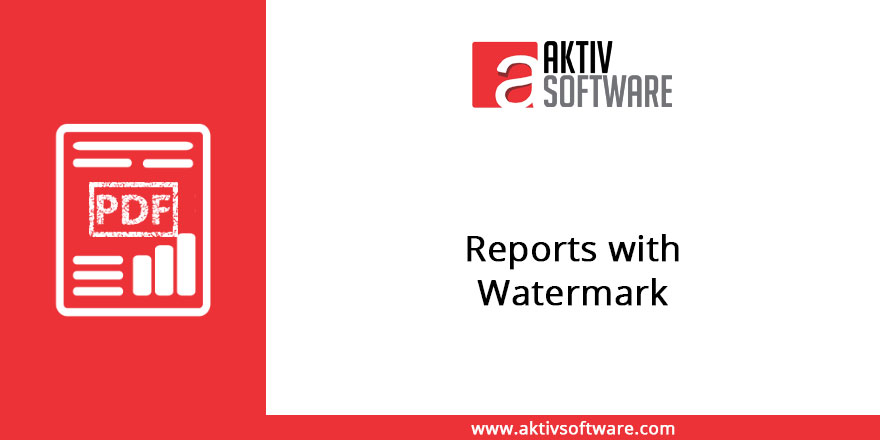
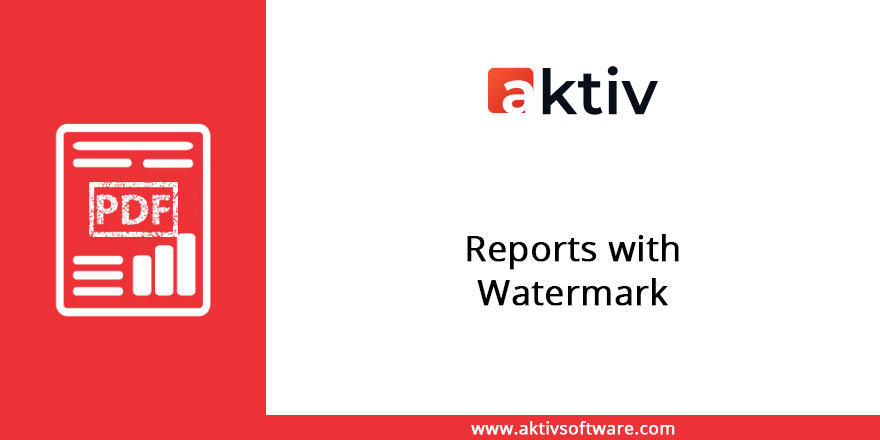
[ADD] change image in 11.0

Changed region(s): [[0.5216, 0.0886, 0.767, 0.2659]]

diff --git a/reports_with_watermark/static/description/index.html b/reports_with_watermark/static/description/index.html
@@ -114,7 +114,7 @@
     <div class="oe_span12">
         <h2 class="oe_slogan">
             <a href="http://aktivsoftware.com/" target="new">
-                <img src="http://aktivsoftware.com/wp-content/uploads/2018/01/logo-1.png"/>
+                <img src="aktiv-logo.png"/>
             </a>
             <br/>
             <a href="mailto:sales@aktivsoftware.com" style="color: #000000 !important;">
